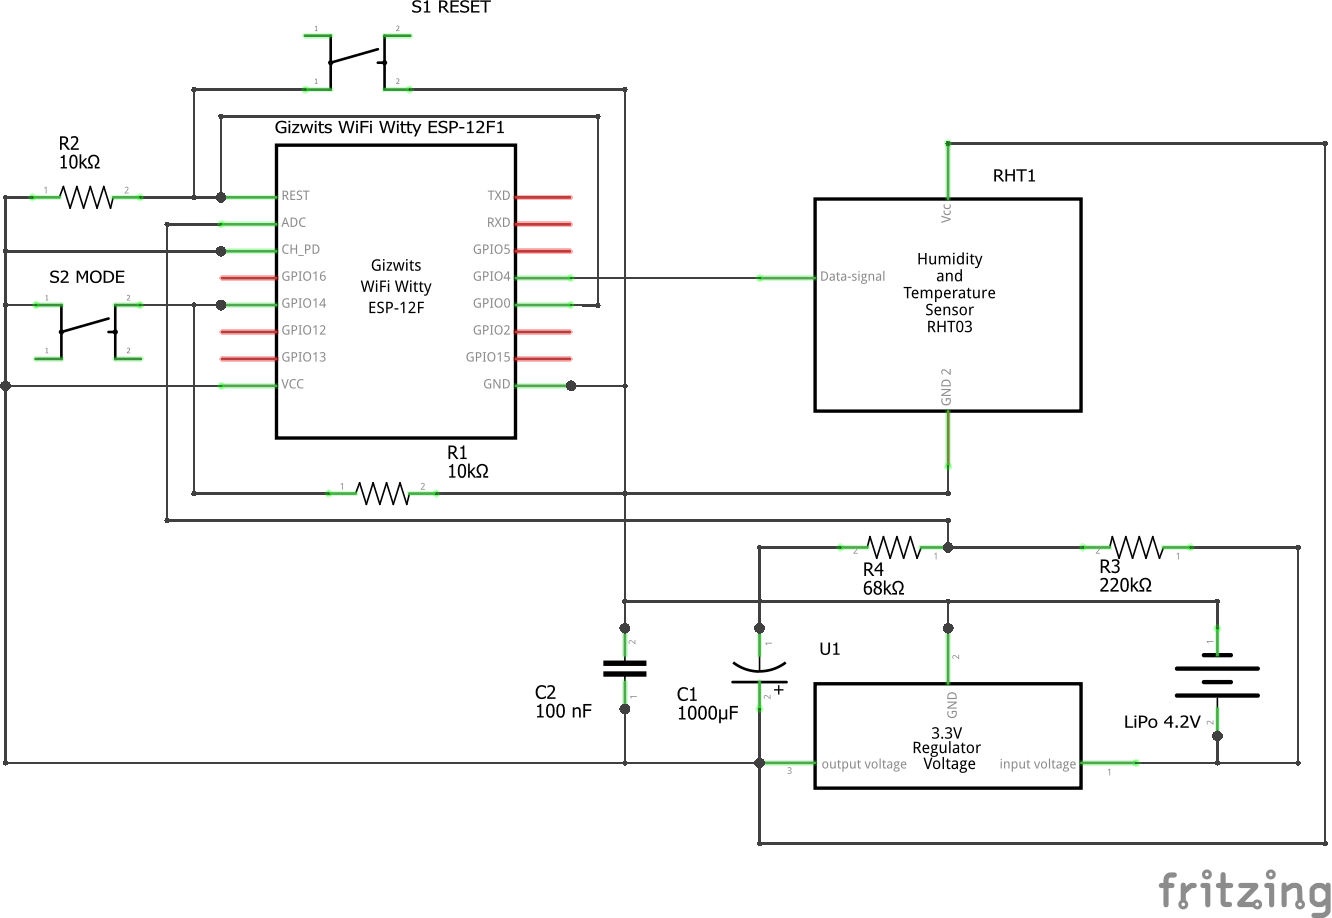
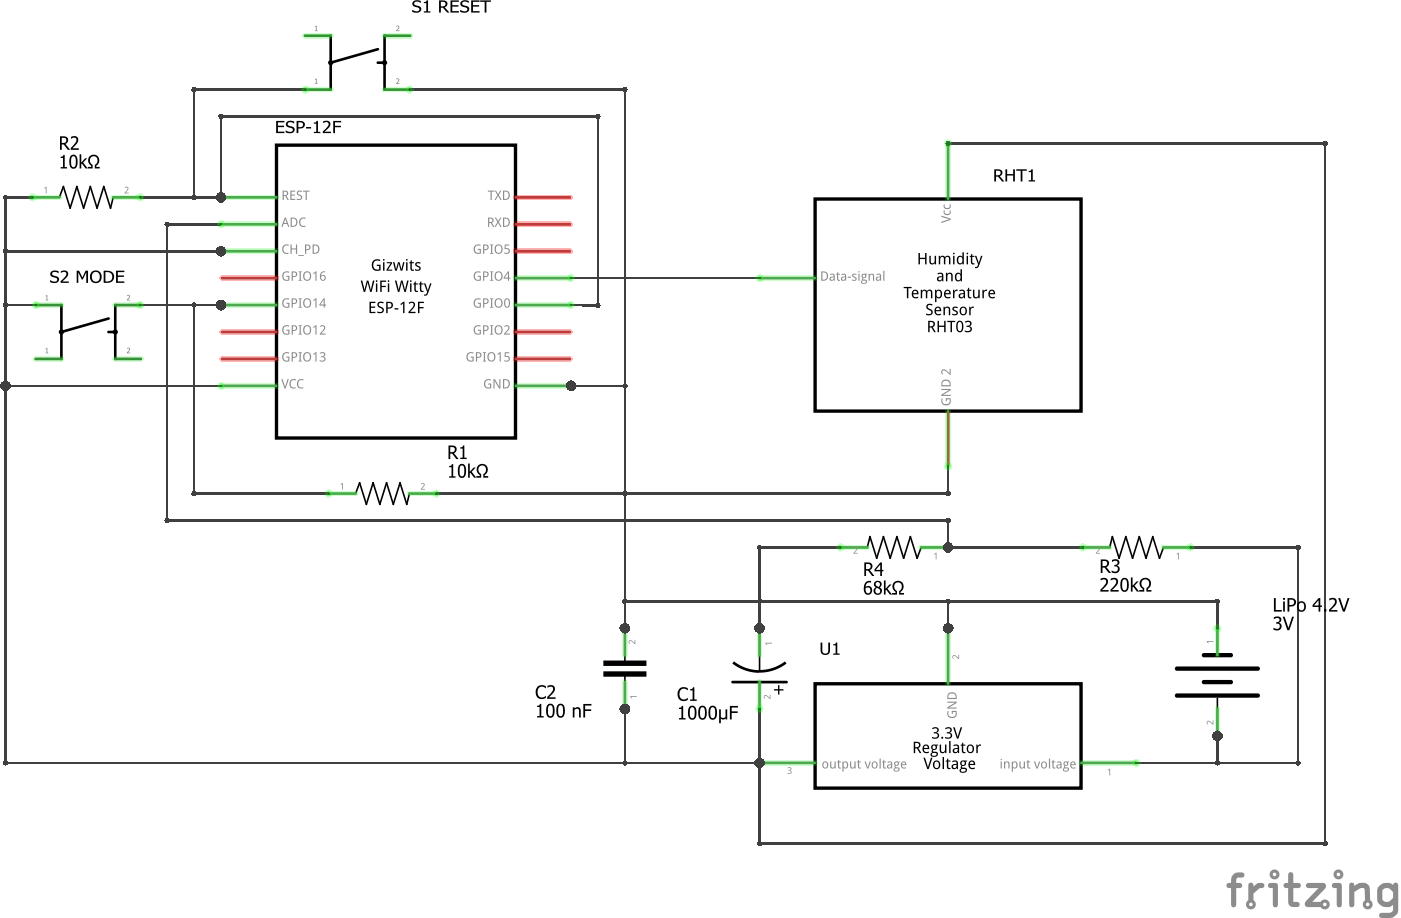
more doc

diff --git a/README.md b/README.md
@@ -21,7 +21,9 @@ Let's take a look at the overall architecture of the system, where Weather stati
 ![Schematics](img/weather_schem.png)
 
 ### ESP8266 MCU
-The weather station uses following pins of ESP8266 MCU:
+The weather station is built around ESP-12F, which is an ESP8266 variant.
+
+The device uses following pins of ESP-12F MCU:
 * VCC, GND - for powering it up with 3.3V,
 * GPIO0 - for wake up circuitry,
 * GPIO4 - input from weather sensor,
@@ -30,16 +32,20 @@ The weather station uses following pins of ESP8266 MCU:
 * RESET - for manual reset and wake up circuitry,
 * CH_PD - must be kept high.
 
-Theoretically each ESP module with following pins exposed is suitable. With some concession it should be also doable to implement this device with ESP-01 module.
-
 ### Power supply unit
-The device is designed to be powered from battery. The ESP module itself is well known of being power hungry, especially when handling WiFi connection thus it is not very suitable for operating on battery. The specifics of the weather station is, however, that it just wakes up every n minutes, gather measurements and sends it to the hub. This assumption helps us greatly, because we can use so-called deep sleep mode of ESP8266 to reduce current from around 80mA to 10uA.
-
-The ESP8266 itself operates in 3.0-3.6V area and nominal voltage should be around 3.3V. I have seen it working in 2.5-3.0V area as well, however stability problems were occasionally visible. Theoretically a bare ESP module (like ESP-12F or ESP-01) can be powered directly from a pack of 2xAA batteries, but we shouldn't expect a long running time, because the 3.10V initial voltage drops below limits rather quickly.
+The device uses single Li-ion 4.2V cell to power itself. The voltage is lowered to nominal 3.3V with LDO voltage regulator (U1, Microship MCP1700-3302E/TO). This regular has a very low dropout voltage (178mV) and can deliver up to 250mA, which is sufficient for ESP8266 and DHT11 sensor. Two capacitors C1 and C2 are used to further stabilize the output voltage. This should ensure stable operation of ESP microcontroller during wake-up procedure.
 
 ### Voltage measurement circuitry
+The device measures Li-ion cell voltage via ADC analog input. Voltage readouts are used for both reporing and to implement cell discharge protection (the voltage of Li-ion cell should never drop below 3V). Because ESP 8266 module (here ESP-12F) accepts only 0-1V on ADC pin, I use voltage divider to reduce voltage before it reaches ADC input. Two resistors R3 and R4 with relatively high resistance (220K and 68K respectively) are used to ensure low current flow thus reduce power consumption.
 
 ### Mode selection, deep sleep and reset circuitry
+By default, the device connects to the WiFi network and MQTT server, gather sensor readings and publish them and then goes for deep sleep for predefined amount of minutes. 
+
+Reset switch (S1) shorts reset pin and GND. Reset pin must be pulled up (R2).
+
+To ensure HTTP access to the firmware (ESP Easy) there is a special mode of operation that can be chosen during power-up or reset. When S2 switch is pressed for a few seconds after power-up or reset, the device enters config mode in which no deep sleep is used. Config mode can be turned off by subsequent reset (mode selection switch must be in released state).
+
+To ensure that ESP chip can wake up itself, RESET and GPIO0 pins must be connected.
 
 ### Sensor circuitry
 
